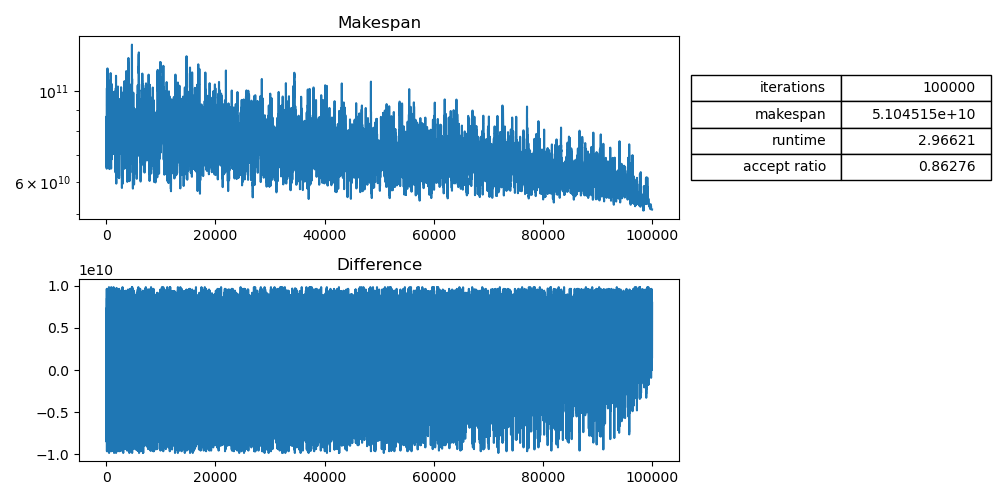
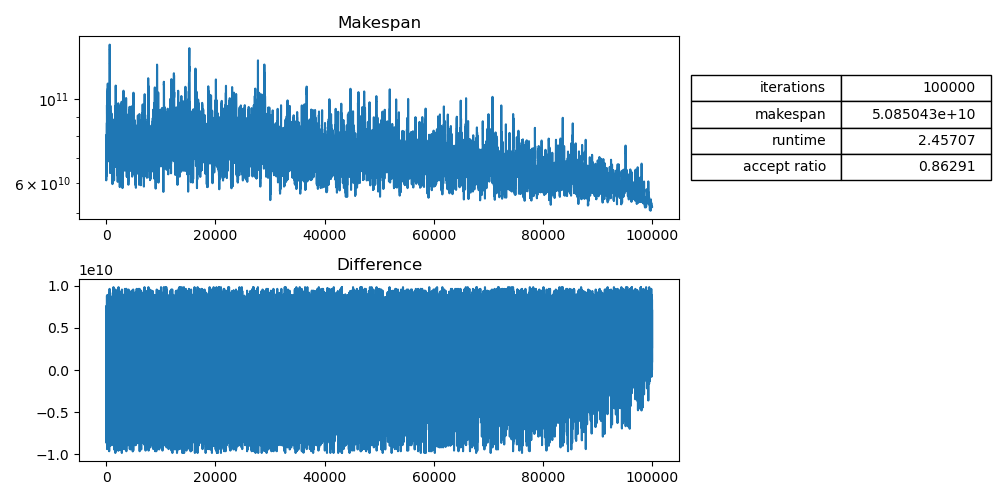
added a more greedy exponential

diff --git a/simann/acceptance_comparison.py b/simann/acceptance_comparison.py
@@ -10,14 +10,20 @@ instance = SimulatedAnnealing.fromFile(jobs_file, m)
 # output filename
 output_prefix = "./experiments/accept_exp"
 
-accept_exp1 = instance.start(100000, exponentialDecay, 8e10, 4e12)  
-accept_exp1.plotResults("{}1.png".format(output_prefix))
+#accept_exp1 = instance.start(100000, exponentialDecay, 8e10, 4e12)  
+#accept_exp1.plotResults("{}1.png".format(output_prefix))
 
-accept_exp2 = instance.start(100000, exponentialDecay, 8e10, 4e10)
-accept_exp2.plotResults("{}2.png".format(output_prefix))
+#accept_exp2 = instance.start(100000, exponentialDecay, 8e10, 4e10)
+#accept_exp2.plotResults("{}2.png".format(output_prefix))
 
-accept_exp3 = instance.start(100000, exponentialDecayNonInc, 8e10, 4e12)
-accept_exp3.plotResults("{}3.png".format(output_prefix))
+#accept_exp3 = instance.start(100000, exponentialDecayNonInc, 8e10, 4e12)
+#accept_exp3.plotResults("{}3.png".format(output_prefix))
 
-accept_exp4 = instance.start(100000, exponentialDecayNonInc, 8e10, 4e10)
-accept_exp4.plotResults("{}4.png".format(output_prefix))
+#accept_exp4 = instance.start(100000, exponentialDecayNonInc, 8e10, 4e10)
+#accept_exp4.plotResults("{}4.png".format(output_prefix))
+
+accept_exp5 = instance.start(10000, exponentialDecayGreedy, 1, 4e12)
+accept_exp5.plotResults("{}5.png".format(output_prefix))
+
+accept_exp6 = instance.start(10000, exponentialDecayGreedy, 1, 4e12)
+accept_exp6.plotResults("{}6.png".format(output_prefix))

diff --git a/simann/p_functions.py b/simann/p_functions.py
@@ -40,3 +40,15 @@ def exponentialDecayNonInc(difference, temperature, good_accept, bad_accept):
         # of still accepting gets smaller and smaller.
         # Furthermore, the larger the difference, the smaller the chance that we will accept the move.
         return random.random() < temperature * math.exp(-difference / bad_accept)
+
+
+def exponentialDecayGreedy(difference, temperature, good_accept, bad_accept):
+    """Use an exponential function of the difference."""
+    if difference < 0: # good-move
+        # If the improvement is too good. We want to make the algorithm less 'greedy'.
+        return random.random() < math.exp(1 / (good_accept * difference))
+    else: # bad-move
+        # If the temperature approaches 0, we are getting more careful, so the chance
+        # of still accepting gets smaller and smaller.
+        # Furthermore, the larger the difference, the smaller the chance that we will accept the move.
+        return random.random() < temperature * math.exp(-difference / bad_accept)
